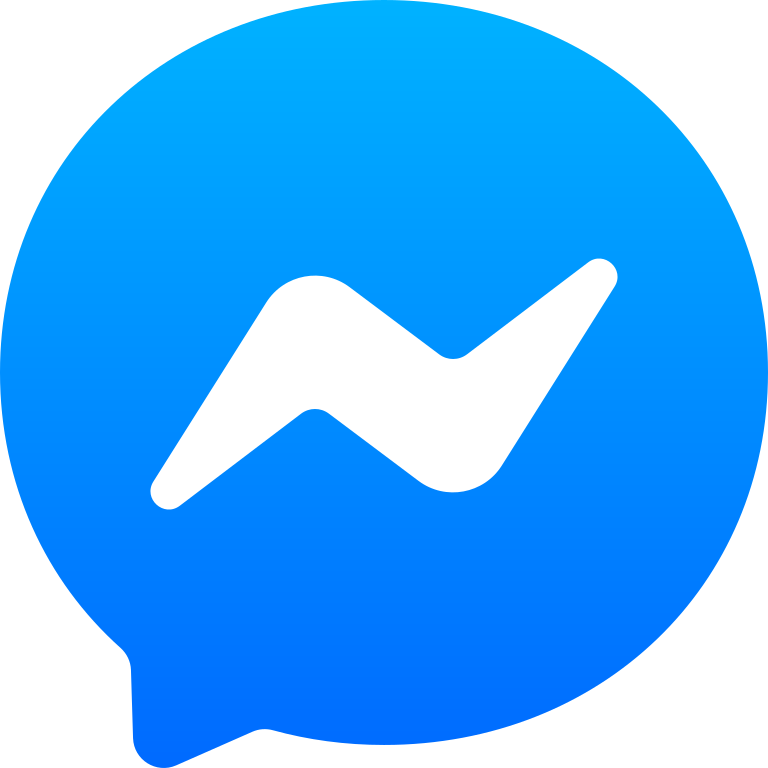
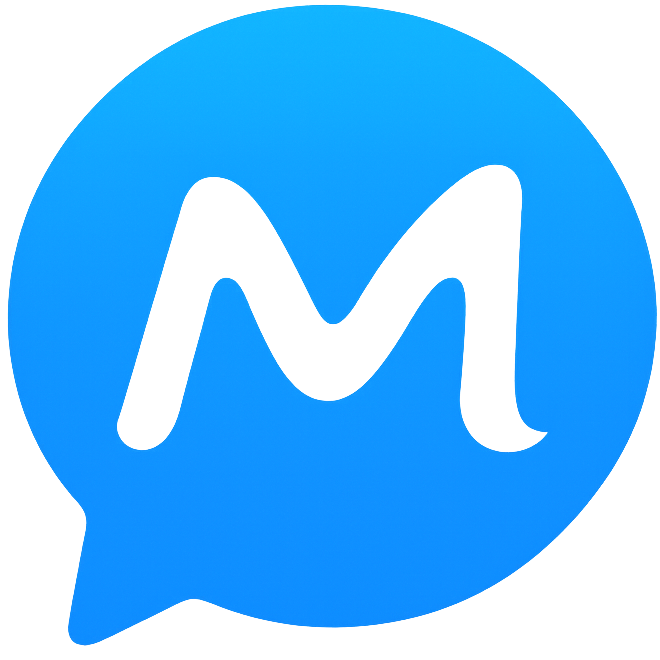
use non copyrighted image and makde typing faster

diff --git a/cypress/support/commands.ts b/cypress/support/commands.ts
@@ -64,17 +64,17 @@ Cypress.Commands.addAll({
   signup(name: string, email: string, password: string) {
     cy.visit('/');
     cy.contains('Create an account').click();
-    cy.get('input[id="name"]').type(name);
-    cy.get('input[id="email"]').type(email);
-    cy.get('input[id="password"]').type(password);
+    cy.get('input[id="name"]').type(name, { delay: 0 });
+    cy.get('input[id="email"]').type(email, { delay: 0 });
+    cy.get('input[id="password"]').type(password, { delay: 0 });
     cy.get('button[type="submit"]').click();
   },
   signupEmpty(name: string,  email: string, _password: string, empty: string) {
     cy.visit('/');
     cy.contains('Create an account').click();
-    cy.get('input[id="name"]').type((empty == 'name')? 'a{backspace}': name); 
-    cy.get('input[id="email"]').type((empty == 'email')? 'a{backspace}': email); 
-    cy.get('input[id="password"]').type((empty == 'password')? 'a{backspace}': name); 
+    cy.get('input[id="name"]').type((empty == 'name')? 'a{backspace}': name, { delay: 0 }); 
+    cy.get('input[id="email"]').type((empty == 'email')? 'a{backspace}': email, { delay: 0 }); 
+    cy.get('input[id="password"]').type((empty == 'password')? 'a{backspace}': name, { delay: 0 }); 
     cy.get('button[type="submit"]').click();
   },
   createTestAccount(name: string, email: string, password: string) {
